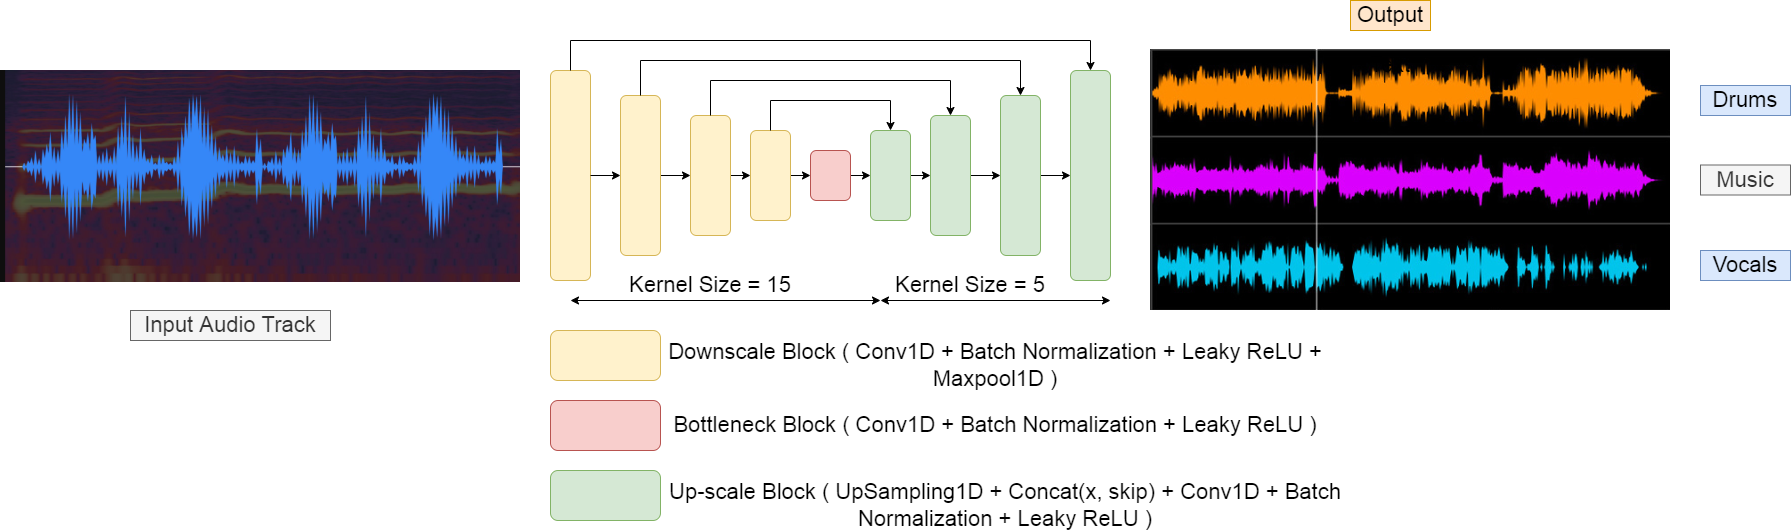
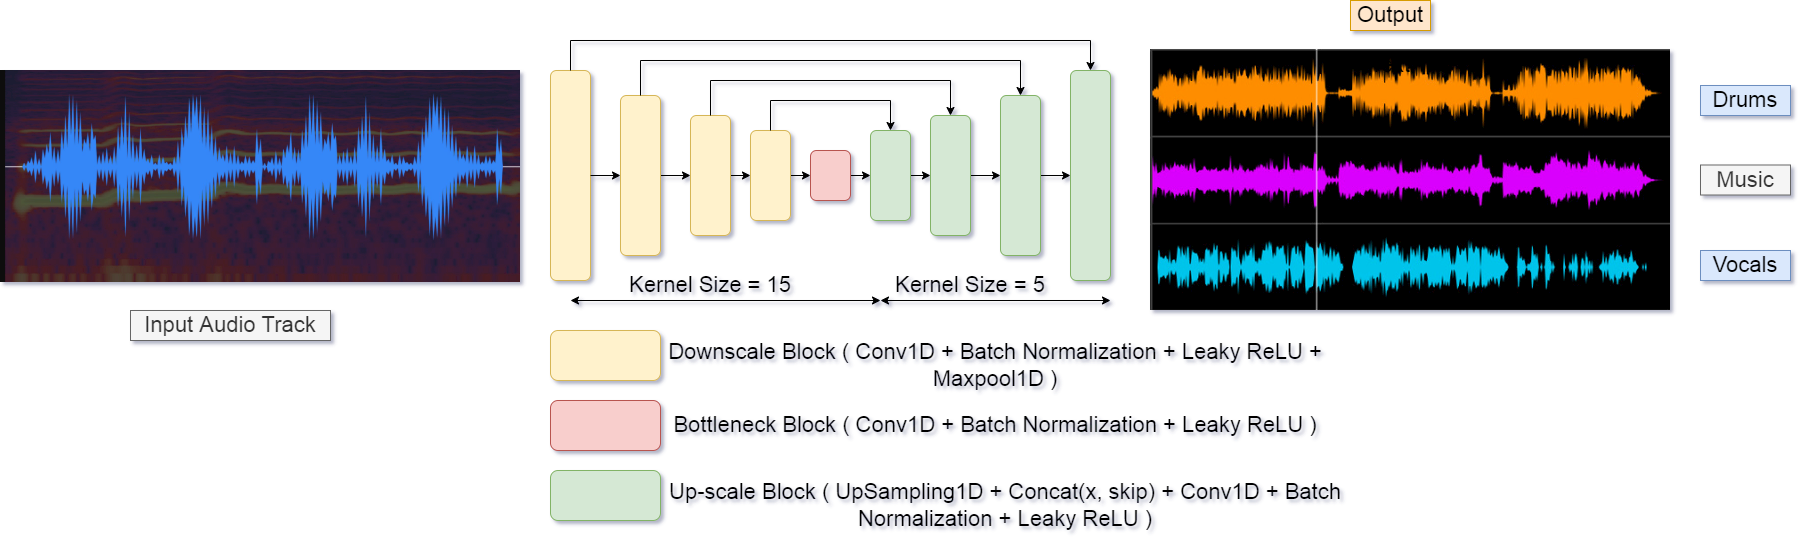
Readme Updated

diff --git a/README.md b/README.md
@@ -1,6 +1,6 @@
 # Audio-Track Separator
 
-<img align="center" alt="architecture" src="./images/intro2.png" style="background-color:white"/><br>
+<img align="center" alt="architecture" src="./images/intro.png" style="background-color:white"/><br>
 
 In this Repository, We developed an audio track separator in tensorflow that successfully separates Vocals and Drums from an input audio song track.
 
